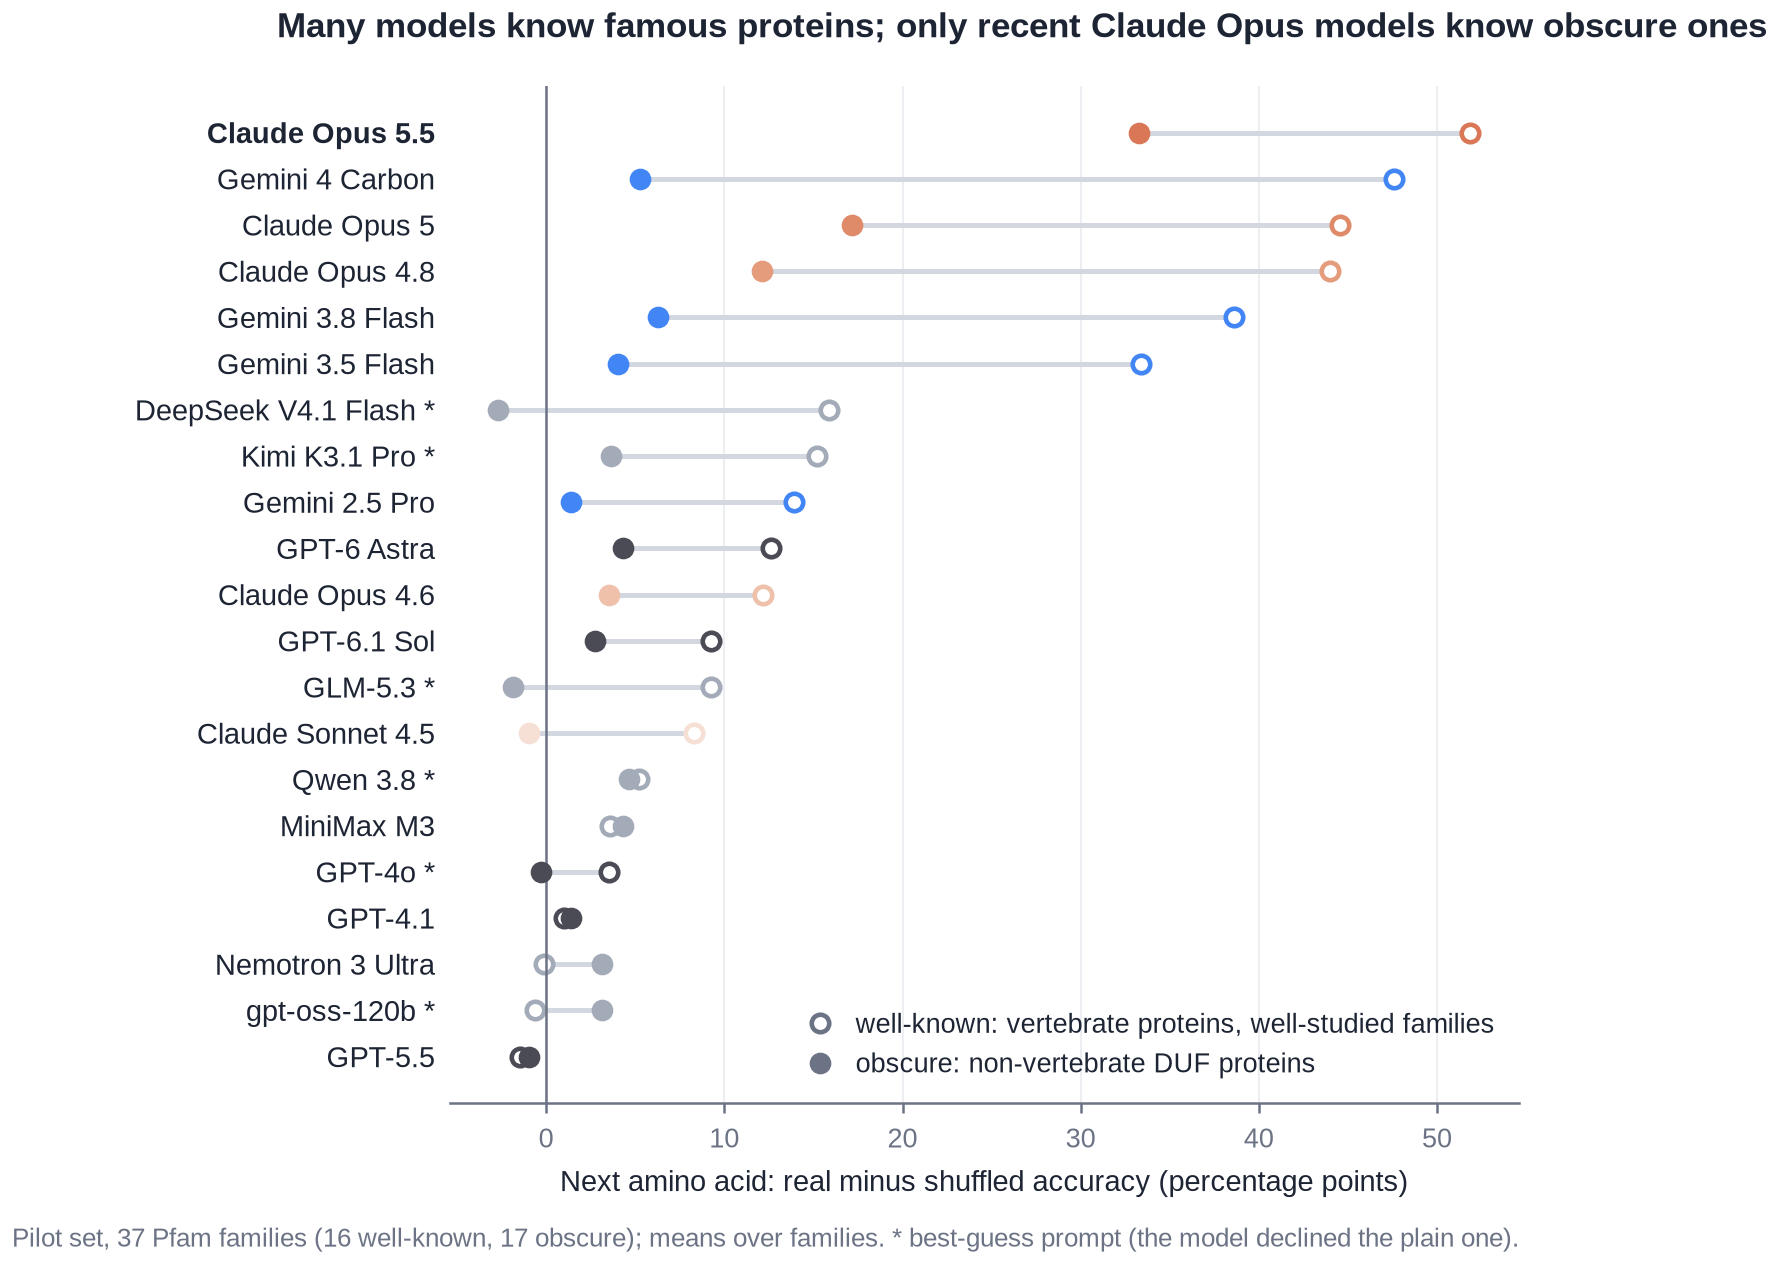
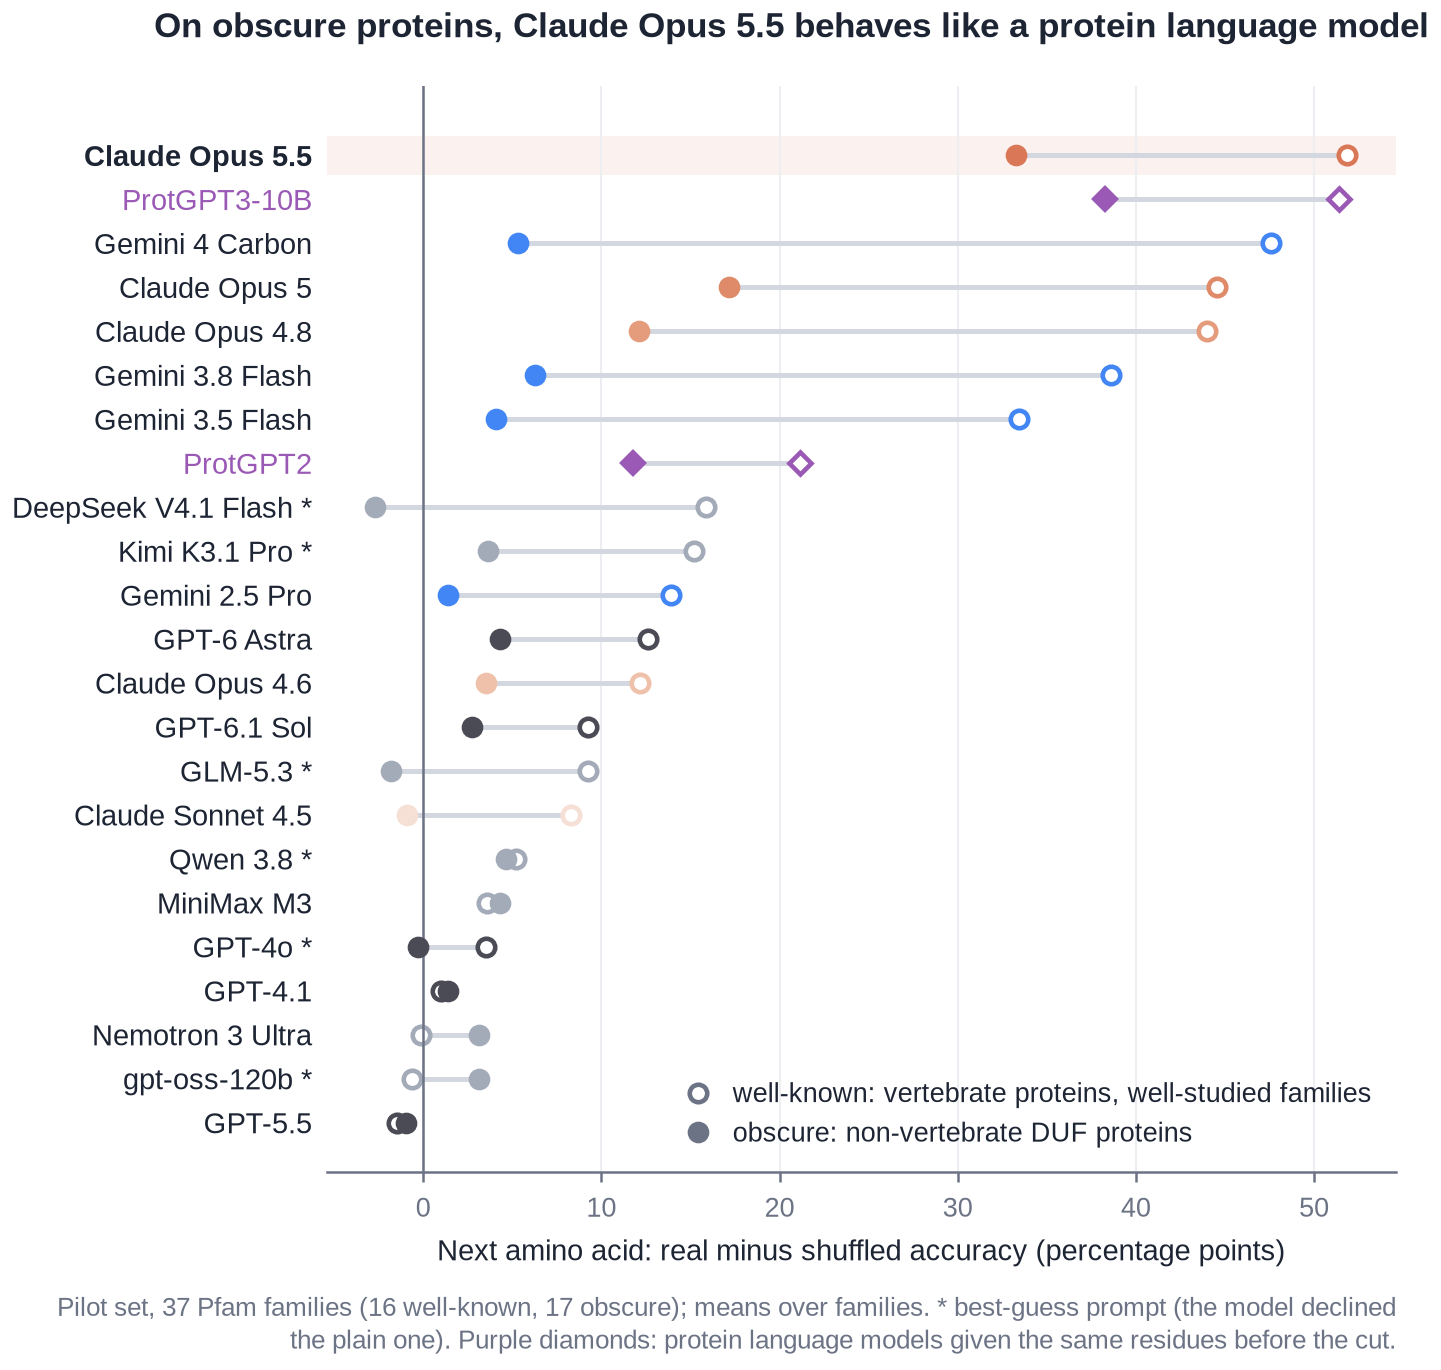
Compare Claude Opus 5.5 with protein language models in its own figure
Fig 1 shows language models only. A new figure puts Opus 5.5 next to
seven protein language models on the same input, ProtGPT3-10B joins the
family-size and well-known vs obscure figures, and the comparison section
now comes before the evidence.

Changed region(s): [[0.0, 0.0615, 0.9681, 0.9842], [0.0937, 0.0, 0.9993, 0.0308], [0.9056, 0.8612, 0.9368, 0.892]]

diff --git a/_posts/2026-11-16-claude-opus-5-5-protein-sequences.md b/_posts/2026-11-16-claude-opus-5-5-protein-sequences.md
@@ -11,8 +11,8 @@ toc:
   - name: "Motivation"
   - name: "Method: proteins nobody has studied"
   - name: "Results: only Claude Opus 5.5 predicts them"
-  - name: "Evidence that this comes from training data"
   - name: "Comparison with protein language models"
+  - name: "Evidence that this comes from training data"
   - name: "Famous proteins and variant ranking"
   - name: "What this means"
   - name: "Code and data"
@@ -85,43 +85,40 @@ The proteins come from 167 Pfam "domain of unknown function" families with no so
 ## Results: only Claude Opus 5.5 predicts them
 
 <figure class="bp-figure" markdown="0">
-  <img src="{{ '/assets/img/llm-bioseq-probe/fig1_protein.png' | relative_url }}" alt="Forest plot of the real-minus-shuffled gap: protein language models first (ProtGPT3-10B +27.7, ProtGPT3-1.3B +11.6, ProtGPT2 +10.2), then Claude Opus 5.5 at +27.4; every other LLM between 0 and 10.">
+  <img src="{{ '/assets/img/llm-bioseq-probe/fig1_protein.png' | relative_url }}" alt="Forest plot of the real-minus-shuffled gap for 17 language models: Claude Opus 5.5 at +27.4 points, earlier Claude Opus models up to 10, every other model between 0 and 3.">
   <figcaption>Filled points: the chat prompt. Hollow points: raw next-token continuation of the FASTA text, through a completion endpoint or a prefilled reply, for models that allow it.</figcaption>
 </figure>
 
 The gap for Opus 5.5 has a 95% CI of 24.7 to 30.0 points and appears in 95% of families. Across Claude generations, Opus 4.5 and 4.6 show none, Opus 4.7, 4.8 and 5 show 8 to 10 points, and Opus 5.5 jumps to 27. The open-weight models were run as raw next-token continuation of the FASTA text, the way they were trained, and still show nothing.
 
+## Comparison with protein language models
+
+Protein language models are trained only on protein sequences, so they set a reference level for the same test. The fairest comparison is ProtGPT3<d-cite key="garibbo2026protgpt3"></d-cite>, released in 2026: like an LLM, it reads a protein left to right and predicts the next residue, and at 10 billion parameters it is the largest open model of its kind. Given the same input, Claude Opus 5.5 matches it.
+
+<figure class="bp-figure" markdown="0">
+  <img src="{{ '/assets/img/llm-bioseq-probe/fig6_protein_lm.png' | relative_url }}" alt="Dot plot: ProtGPT3-10B +27.7 and Claude Opus 5.5 +27.4 at the top; ESM C 600M +13.0, ProtGPT3-1.3B +11.6, ProtGPT2 +10.2, ESM3-open +8.5 and ESM-2 650M +7.0 well below.">
+</figure>
+
+ProtGPT3-10B gets more answers right on real proteins (38.4% vs 34.9%) but also on shuffled ones (10.7% vs 7.5%), because it knows protein composition better; what each has learned about residue order is the same. The ESM models normally see both sides of a residue, so the left side alone is a harder setting for them. Appendix C has the full table.
+
 ## Evidence that this comes from training data
 
 <figure class="bp-figure" markdown="0">
-  <img src="{{ '/assets/img/llm-bioseq-probe/fig5_family_size.png' | relative_url }}" alt="Line chart: Claude Opus 5.5's gap rises from 21 points in families of 300 to 1,000 proteins to 37 points in families over 10,000; other models stay near zero.">
+  <img src="{{ '/assets/img/llm-bioseq-probe/fig5_family_size.png' | relative_url }}" alt="Line chart: Claude Opus 5.5 and ProtGPT3-10B both rise from about 21 to 24 points in families of 300 to 1,000 proteins to 37 points in families over 10,000; other models stay near zero.">
 </figure>
 
-A model that learned from sequence data should know big families better than small ones, and Opus 5.5 does: 21 points for families of 300 to 1,000 proteins, 37 for families over 10,000 (Spearman 0.27, p = 0.0002). Opus 4.7, 4.8 and 5 show the same slope at a lower level. Two other explanations do not fit:
+A model that learned from sequence data should know big families better than small ones, and Opus 5.5 does: 21 points for families of 300 to 1,000 proteins, 37 for families over 10,000 (Spearman 0.27, p = 0.0002). ProtGPT3-10B, which learned only from sequences, follows the same curve. Opus 4.7, 4.8 and 5 show the same slope at a lower level. Two other explanations do not fit:
 
 - **Not papers.** In the 128 families with no Europe PMC hit at all, the gap is 26.8 points and still grows with family size (rho 0.28, p = 0.001). Across families it does not track paper counts (rho 0.05).
 - **Not reasoning.** On the 55% of questions where Opus 5.5 wrote 15 tokens or fewer, barely more than the answer, it is right 35.6% of the time (shuffled: 7.3%). GPT-6 Astra thinks for 200+ tokens per question and reaches about 10%.
 
-## Comparison with protein language models
-
-Protein language models are trained only on protein sequences, so they set a reference level for the same test. The fairest comparison is ProtGPT3<d-cite key="garibbo2026protgpt3"></d-cite>, released in 2026: like an LLM, it reads a protein left to right and predicts the next residue, and at 10 billion parameters it is the largest open model of its kind. Given the same input, Claude Opus 5.5 matches it:
-
-| Model | Real minus shuffled, points (95% CI) |
-|---|---|
-| **Claude Opus 5.5** | **+27.4** (24.7 to 30.0) |
-| **ProtGPT3-10B** | **+27.7** (24.2 to 31.1) |
-| ProtGPT3-1.3B | +11.6 (8.9 to 14.4) |
-| ESM C 600M | +13.0 (10.7 to 15.2) |
-
-All models see only the residues before the cut. ProtGPT3-10B gets more answers right on real proteins (38.4% vs 34.9%) but also on shuffled ones (10.7% vs 7.5%), because it knows protein composition better; what each has learned about residue order is the same. ESM C, like other ESM models, normally sees both sides of a residue, so the left side alone is a harder setting for it. Appendix C lists all seven protein language models.
-
 ## Famous proteins and variant ranking
 
 <figure class="bp-figure" markdown="0">
-  <img src="{{ '/assets/img/llm-bioseq-probe/fig3_known_vs_obscure.png' | relative_url }}" alt="Dumbbell chart: on well-known proteins many models score high; on obscure proteins only recent Claude Opus models do.">
+  <img src="{{ '/assets/img/llm-bioseq-probe/fig3_known_vs_obscure.png' | relative_url }}" alt="Dumbbell chart: on well-known proteins many models score high; on obscure proteins Claude Opus 5.5 and ProtGPT3-10B stay high while Gemini 4 Carbon drops to near zero.">
 </figure>
 
-On well-studied vertebrate proteins many models do well: Gemini 4 Carbon gains 47.6 points, and several models recite hundreds of residues letter for letter (Appendix B). These sequences are printed in papers and mirrored across the web. Gemini 4 Carbon recites them, yet is at chance on the obscure bacterial set.
+On well-studied vertebrate proteins many models do well: Gemini 4 Carbon gains 47.6 points, and several models recite hundreds of residues letter for letter (Appendix B). These sequences are printed in papers and mirrored across the web. Gemini 4 Carbon recites them, yet is at chance on obscure proteins (+47.6 vs +5.3). Claude Opus 5.5 keeps most of its accuracy (+51.9 vs +33.3), as does the protein language model ProtGPT3-10B (+51.4 vs +38.2).
 
 This is also why our result does not contradict the SOD1 post or PG-LLM. Ranking variants of a well-studied protein can draw on biology and the literature: which positions are buried, which substitutions break a helix, which mutations are known in ALS. PG-LLM's flat accuracy across alignment depth, and its gains with more thinking, point to that route. Our test closes it off. GPT-6 has the first ability and little of the second; Opus 5.5 has both.
 
